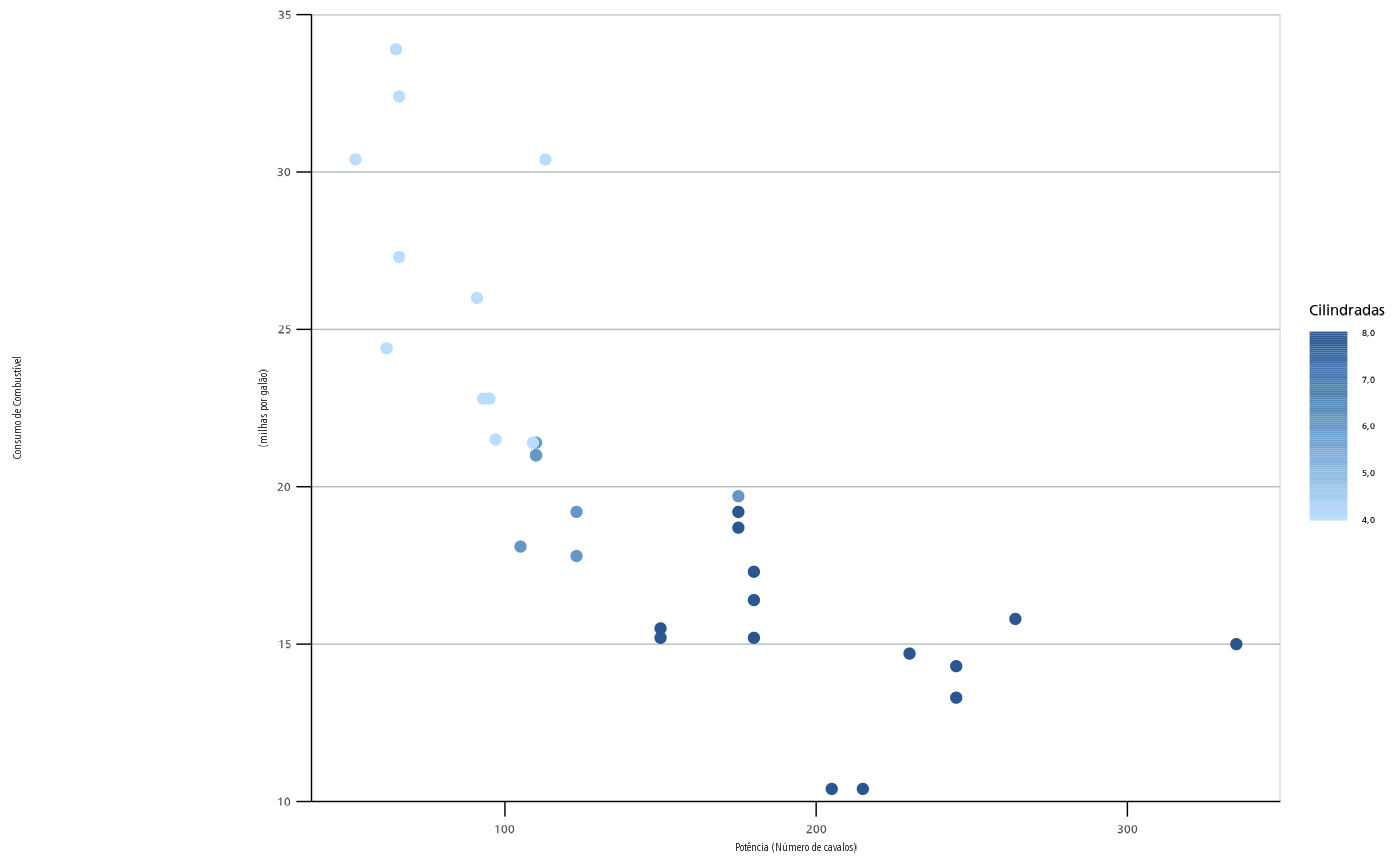
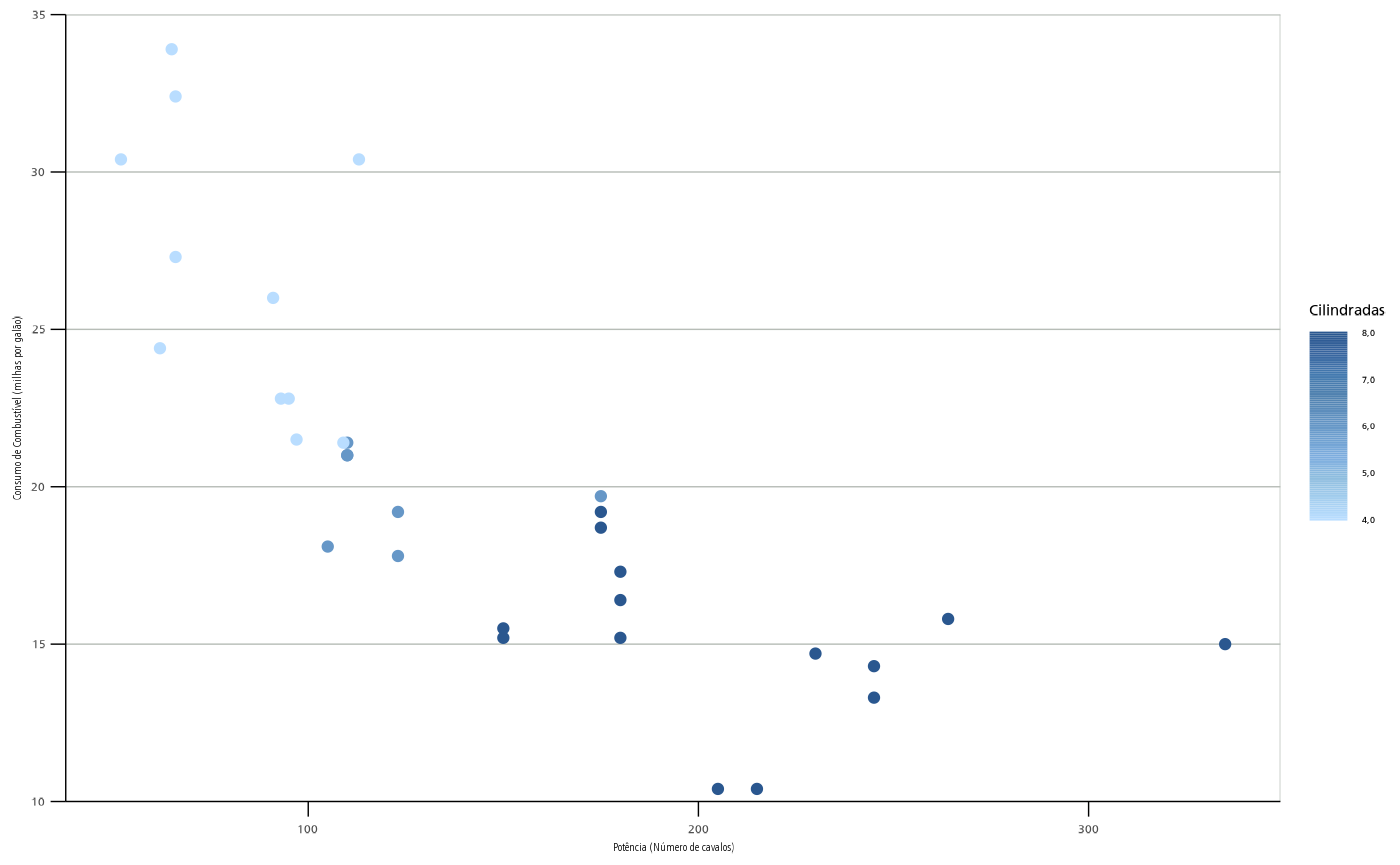
Deploying to gh-pages from @ ipeadata-lab/ipeaplot@2dfba9b463ed232b3b7aaf11909781c4102f3b30 🚀

diff --git a/articles/intro_ipeaplot.html b/articles/intro_ipeaplot.html
@@ -141,7 +141,7 @@ guidelines.</p>
 <div class="sourceCode" id="cb3"><pre class="downlit sourceCode r">
 <code class="sourceCode R"><span><span class="va">fig_base</span> <span class="op">&lt;-</span> <span class="fu"><a href="https://ggplot2.tidyverse.org/reference/ggplot.html" class="external-link">ggplot</a></span><span class="op">(</span><span class="op">)</span> <span class="op">+</span></span>
 <span>              <span class="fu"><a href="https://ggplot2.tidyverse.org/reference/geom_point.html" class="external-link">geom_point</a></span><span class="op">(</span>data <span class="op">=</span> <span class="va">mtcars</span>, <span class="fu"><a href="https://ggplot2.tidyverse.org/reference/aes.html" class="external-link">aes</a></span><span class="op">(</span>x <span class="op">=</span> <span class="va">hp</span> , y <span class="op">=</span> <span class="va">mpg</span>, color <span class="op">=</span> <span class="va">cyl</span><span class="op">)</span><span class="op">)</span> <span class="op">+</span></span>
-<span>              <span class="fu"><a href="https://ggplot2.tidyverse.org/reference/labs.html" class="external-link">labs</a></span><span class="op">(</span>y<span class="op">=</span><span class="st">'Consumo de Combustível\n(milhas por galão)'</span>,</span>
+<span>              <span class="fu"><a href="https://ggplot2.tidyverse.org/reference/labs.html" class="external-link">labs</a></span><span class="op">(</span>y<span class="op">=</span><span class="st">'Consumo de Combustível (milhas por galão)'</span>,</span>
 <span>                   x <span class="op">=</span><span class="st">'Potência (Número de cavalos)'</span>,</span>
 <span>                   color<span class="op">=</span><span class="st">'Cilindradas'</span><span class="op">)</span> <span class="op">+</span></span>
 <span>              <span class="fu"><a href="../reference/scale_color_ipea.html">scale_color_ipea</a></span><span class="op">(</span><span class="op">)</span> <span class="op">+</span></span>
@@ -164,7 +164,7 @@ divergentes <code>c("Red-Blue", "Orange-Blue")</code>.</p>
 <p><strong>Cores sequenciais:</strong>
 <img src="intro_ipeaplot_files/figure-html/unnamed-chunk-5-1.png" width="100%"><img src="intro_ipeaplot_files/figure-html/unnamed-chunk-5-2.png" width="100%"><img src="intro_ipeaplot_files/figure-html/unnamed-chunk-5-3.png" width="100%"></p>
 <p><strong>Cores divergentes:</strong>
-<img src="intro_ipeaplot_files/figure-html/unnamed-chunk-6-1.png" width="100%"><img src="intro_ipeaplot_files/figure-html/unnamed-chunk-6-2.png" width="100%"></p>
+<img src="intro_ipeaplot_files/figure-html/unnamed-chunk-6-1.png" width="100%"><img src="intro_ipeaplot_files/figure-html/unnamed-chunk-6-2.png" width="100%"><img src="intro_ipeaplot_files/figure-html/unnamed-chunk-6-3.png" width="100%"></p>
 <div class="sourceCode" id="cb4"><pre class="downlit sourceCode r">
 <code class="sourceCode R"><span><span class="co"># paleta sequencial verde</span></span>
 <span><span class="va">fig_base</span> <span class="op">+</span> <span class="fu"><a href="../reference/scale_color_ipea.html">scale_color_ipea</a></span><span class="op">(</span>palette <span class="op">=</span> <span class="st">"Green"</span><span class="op">)</span></span></code></pre></div>
@@ -398,9 +398,7 @@ arquivo <code>file.name</code> e as dimensões da figura
 <code>width</code> e <code>height</code> em centímetros:</p>
 <div class="sourceCode" id="cb14"><pre class="downlit sourceCode r">
 <code class="sourceCode R"><span><span class="fu"><a href="../reference/save_eps.html">save_eps</a></span><span class="op">(</span><span class="va">fig2</span>, </span>
-<span>         file.name <span class="op">=</span> <span class="st">"figura_2.eps"</span>,</span>
-<span>         width <span class="op">=</span> <span class="fl">15</span>,</span>
-<span>         height <span class="op">=</span> <span class="fl">15</span><span class="op">)</span></span></code></pre></div>
+<span>         file.name <span class="op">=</span> <span class="st">"figura_2.eps"</span><span class="op">)</span></span></code></pre></div>
 </div>
 </div>
 </div>
